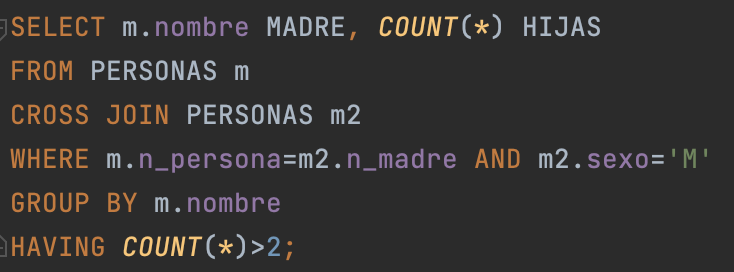
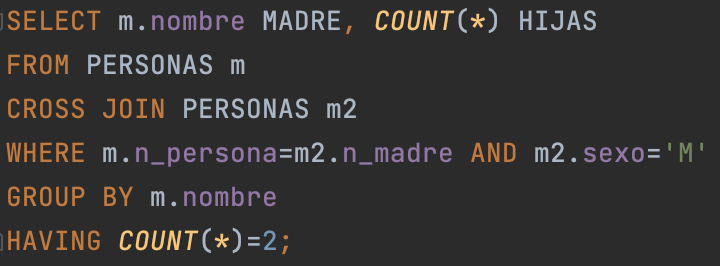
HAVING

diff --git a/README.md b/README.md
@@ -114,11 +114,21 @@ Con eso se mostrarán las coincidencias, pero como además se necesita sacar a l
 
 ![Ejercicio_LEFTOUTER](Ejercicios/LEFT%20OUT%20EJ3%20PR19.png)
 
-### SUM, AVG, COUNT, MAX o MIN
+### Consulta de totales (COUNT)
+En el __ejercicio 7 de la práctica 19 (PadreMadre)__ se pedía una consulta para saber las madres que han tenido hijos con padres distintos.
+
+Para esto entrará en juego el COUNT que usado con (*) contará filas. Para este ejercicio, en primer lugar se ha hecho una consulta de padres y madres y cuántos hijos tienen en común. Sobre esa consulta se ha hecho exactamente lo mismo, pero en vez de contar hijos, se han contado olos padres, por lo que como resultado se obtendrá el nombre de las madres y el número de padres con los que han tenido hijos.
+
+En este caso, además, se ha añadido como condición que sea superior a uno (es decir, más de un padre).
 
 ![Ejercicio_CONSTOT](Ejercicios/COUNT%20EJ7%20PR19.png)
 
 ### HAVING
+Aunque ya se ha visto en la anterior consulta, en esta nos centraremos en el HAVING para encontrar el nombre de las madres que hayan tenido 2 hijas, se trata del __ejercicio 5 de la práctica 19 (PadreMadre)__.
+
+En este caso se tendrá que consultar primero el nombre de las personas que son madre, y se comparará con la misma tabla en la que aparecerán los hijos (que también se filtrará a través de la columna sexo, para que únicamente aparezcan hijas). Se agrupará por el nombre de la madre y se contarán las filas resultantes de esta columna (es decir, número de hijas).
+
+Por último, y la parte importante, se pide que tengan 2 hijas
 
 ![Ejercicio_HAVING](Ejercicios/HAVING%20EJ5%20PR19.png)
 
